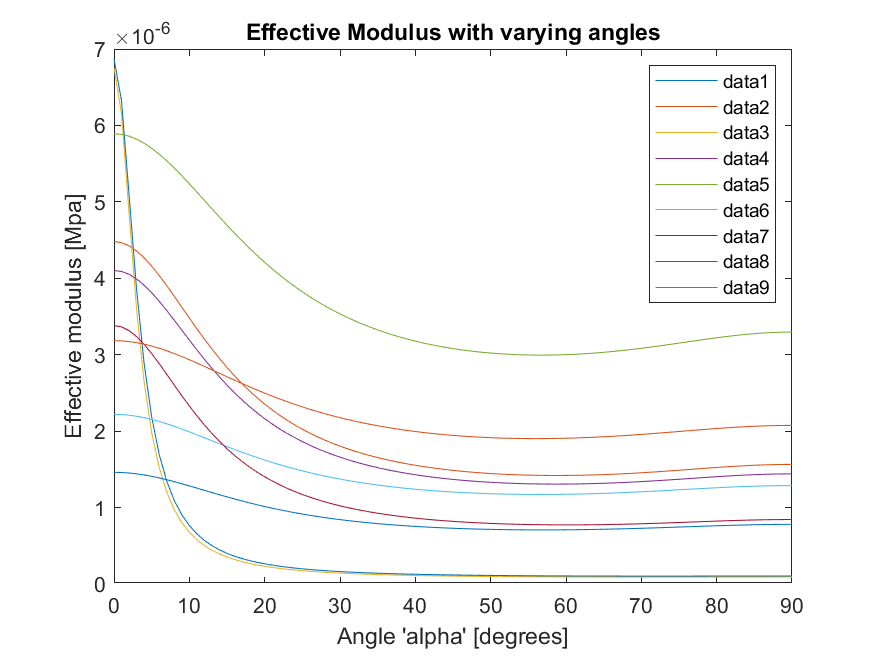
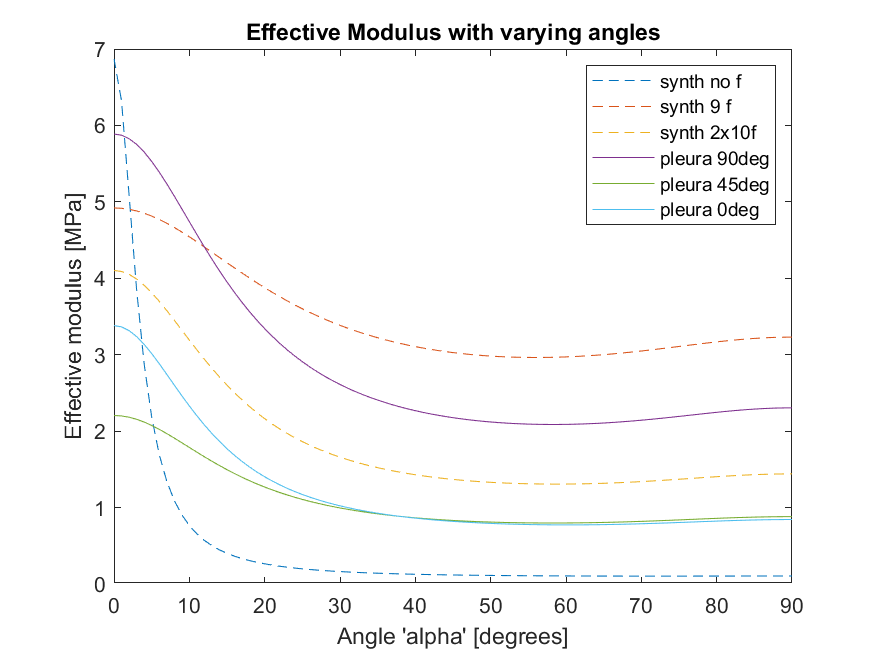
Add files via upload

diff --git a/overall.m b/overall.m
@@ -1,26 +1,37 @@
-[v_f,m_f] = biochemical_essay(0.4,10.73);%solvent in ml, sample_mass in mg(, tissue_vol in ml)
+% [v_f,m_f] = biochemical_essay(0.4,10.73);%solvent in ml, sample_mass in mg(, tissue_vol in ml)
 
 %   [1]         [2]             [3]     [4]        [5]
-%file_name, angle (degrees), width_0, width_1, thickness
+%file_name, angle (degrees), width_0 (mm), width_1(mm), thickness
 data = ["data/Test Run 1 synthetisch niks.txt",       0, 9.15,  9.14,  1.17;    %run 1
-        "data/Test Run 2 - 9 rechte fibers.txt",      0, 9.95,  9.91,  1.57;    %run 2
+        "data/Test Run 2 - 9 rechte fibers.txt",      0, 9.28,  9.23,  1.57;    %run 2
         "data/Test Run 3 synthetisch 70 graden.txt", 70, 9.61,  9.60,  1.5;     %run 3
         "data/Test Run 4 - 10 dubbele fibers.txt",    0, 9.95,  9.91,  1.57;    %run 4
         %"data/Test Run 5 1 vezel.txt",                0, 0.065, 0.064, 0.065;   %run 5 (verneukt elke grafiek)
-        "data/Test Run 6 verticaal 1.txt",            0, 0.95,  0.48,  0.22;    %run 5
-        "data/Test Run 7 - 45 graden 1.txt",         45, 3.3,   1.64,  0.9;     %run 6
-        "data/Test Run 8 horizontaal 1.txt",         90, 3.14,  3.03,  0.33;    %run 7
-        "data/Test Run 9 verticaal 2.txt",            0, 4.76,  4.53,  0.91;    %run 8
-        "data/Test Run 10 horizontaal 2.txt",        90, 2.24,  2.12,  0.59];   %run 9
+        "data/Test Run 6 verticaal 1.txt",           90, 0.95,  0.91,  0.22;    %run 5 
+        "data/Test Run 7 - 45 graden 1.txt",         45, 3.3,   3.16,  0.9;     %run 6
+        "data/Test Run 8 horizontaal 1.txt",          0, 3.14,  3.03,  0.33;    %run 7 %% raar result bij varying f-content
+        "data/Test Run 9 verticaal 2.txt",           90, 4.76,  4.53,  0.91;    %run 8
+        "data/Test Run 10 horizontaal 2.txt",         0, 2.24,  2.12,  0.59];   %run 9 %% raar result bij varying f-content
 
+plot_inf = ["synth no f","--";
+            "synth 9 f","--";
+            "synth f 70deg","--";
+            "synth 2x10f","--";
+            "pleura 90deg","-";
+            "pleura 45deg","-";
+            "pleura 0deg","-";
+            "pleura 90deg t2","-";
+            "pleura 0deg t2","-"];
+        
 %Effective Modulus with varying angle & volume fraction for specific data
 %run
-data_run = 5;           %Changable var
+data_run = 4;           %Changable var
 x_vm = 0:0.01:0.5;      %Changable var
 x_angle = 0:1:5;        %Changable var
 
 
 [E_comp,vm] = stress_strain_test(data(data_run,1),double(data(data_run,3)),double(data(data_run,4)),double(data(data_run,5)));
+
 E_f = E_comp*(1-vm);
 E_m = E_comp*vm;
 
@@ -33,38 +44,42 @@ for angle = x_angle
     hold on
 end
 
-title('Effective Modulus with varying angle & volume fraction');
+title('Effective Modulus with varying angle & fiber content');
 xlabel('fiber content, Vf [mg/mg]');
-ylabel('Effective modulus [Mpa]');
-legend();
-saveas(gcf,'Effective Modulus with varying angle & volume fraction.png');
+ylabel('Effective modulus [MPa]');
+legend(plot_inf(data_run,1));
+saveas(gcf,'Effective Modulus with varying angle & fiber content.png');
+
+
 
 %Effective Modulus with varying angle
-x_angle = 0:1:90;       %Changable var
+data_set_angle = [1,2,4,5,6,7]; %Changable var --> select which data sets you want to use from data directory
+x_angle = 0:1:90;               %Changable var
 
-for i = 1:1:size(data,1)%Changable var (set i to 1 or multiple data runs)
+for i = data_set_angle %Changable var (set i to 1 or multiple data runs)
     y = [];
-    disp(i)
     [E_comp, v_m] = stress_strain_test(data(i,1),double(data(i,3)),double(data(i,4)),double(data(i,5)));
     
     for angle = x_angle
         y(end+1) = youngsmodulus(angle, E_comp*(1-v_m), E_comp*v_m, v_m);
     end
-    figure(3), plot(x_angle, y);
+    figure(3), plot(x_angle, y, plot_inf(i,2));
     hold on
 end
 
 title('Effective Modulus with varying angles');
 xlabel("Angle 'alpha' [degrees]");
-ylabel('Effective modulus [Mpa]');
-legend();
+ylabel('Effective modulus [MPa]');
+legend(plot_inf(data_set_angle,1));
 saveas(gcf,'Effective Modulus with varying angle.png');
 
 
-%Effective Modulus with varying fiber content
-x_vm = 0:0.01:0.5;      %Changable var
 
-for i = 1:1:size(data,1)%Changable var (set i to 1 or multiple data runs)
+%Effective Modulus with varying fiber content
+data_set_fiber = [1,2,4,5,6,7]; %Changable var --> select which data sets you want to use from data directory
+x_vm = 0:0.01:0.5;              %Changable var --> define on which range you want v_m to iterate
+
+for i = data_set_fiber %Changable var (set i to 1 or multiple data runs)
     y = [];
     [E_comp] = stress_strain_test(data(i,1),double(data(i,3)),double(data(i,4)),double(data(i,5)));
     
@@ -72,12 +87,12 @@ for i = 1:1:size(data,1)%Changable var (set i to 1 or multiple data runs)
         y(end+1) = youngsmodulus(double(data(i,2)), E_comp*(1-v_m), E_comp*v_m, vm);
     end
 
-    figure(4), plot(x_vm, y);
+    figure(4), plot(x_vm, y, plot_inf(i,2));
     hold on
 end
 
-title('Effective Modulus with varying angles');
-xlabel("Angle 'alpha' [degrees]");
-ylabel('Effective modulus [Mpa]');
-legend();
+title('Effective Modulus with varying fiber content');
+xlabel("fiber content, Vf [mg/mg]");
+ylabel('Effective modulus [MPa]');
+legend(plot_inf(data_set_fiber,1));
 saveas(gcf,'Effective Modulus with varying fiber content.png');

diff --git a/biochemical_essay.m b/biochemical_essay.m
@@ -1,0 +1,52 @@
+function [v_f,m_f] = biochemical_essay(solvent,sample_mass,tissue_vol)%solvent in ml, sample_mass in mg, tissue_vol in ml
+    tiss_D = 1.0405125*10^3; %mg/ml
+    col_D = 1.35*10^3; %mg/ml
+    tiss_vol = sample_mass /tiss_D; %ml
+
+
+    bio_std = table2array(readtable('Hyp Group 12.xlsx','Range','C25:D31'));
+    tiss_mass = table2array(readtable('Hyp Group 12.xlsx','Range','G25:H27'));
+    bio_std_mean = mean(bio_std,2);
+    tiss_mass_mean = mean(tiss_mass,2);
+    conc = [0,12.5,25,50,100,200,400];
+
+    %get data:
+    mdl = fitlm(conc,bio_std_mean);
+    trend = [mdl.Coefficients.Estimate(2),mdl.Coefficients.Estimate(1)];
+    R_adj = mdl.Rsquared.Adjusted;
+
+    %plot data:
+    figure(1),
+    plot(conc,bio_std_mean,'black *');
+    hold on
+    
+    %add labels and texts:
+    title('Calibration line standards');
+    xlabel('Concentration Hydroxyproline in standards [μg/ml]');
+    ylabel('Absorption [nm]');
+    caption_1 = sprintf('y = %fx + %f', trend(1), trend(2));
+    caption_2 = sprintf('R^2-adjusted = %f', R_adj);
+    text(250,0.15,caption_1);
+    text(250,0.1,caption_2);
+    
+    % Plot the least-squares trend line: 
+    x = [0 max(conc)]; 
+    plot(x,polyval(trend,x),'red--');
+    axis([0 max(conc)*1.1 0 max(bio_std_mean)*1.1]);
+    
+    %save plot:
+    saveas(gcf,'biochem_essay.png');
+
+
+    %formulate volume and massa fractions:
+    %y=ax+b --> x=(y-b)/a
+    tiss_mass_hyp = tiss_mass_mean(1) - trend(2);
+    conc_hyp = tiss_mass_hyp/trend(1);
+
+    col_mass = conc_hyp * solvent * 8 * 10^-3; %mg collagen
+    col_volume = col_mass/col_D; %ml collagen 
+
+    %results:
+    m_f = col_mass/sample_mass;
+    v_f = col_volume/tiss_vol;
+end

diff --git a/stress_strain_test.m b/stress_strain_test.m
@@ -1,18 +1,15 @@
 function [E_comp, v_m] = stress_strain_test(file_name, width_0, width_1, thickness)
     file_data = importdata(file_name);
-    crosshead = file_data.data(:,1)*10^-3; %m
-    load = file_data.data(:,2); %N
+    crosshead = file_data.data(:,1); %mm
+    load = file_data.data(:,2)*10^3; %kN-->N
     time = file_data.data(:,3); %sec
     
     %Tensile strain & strength in y-direction (verticle)
-    tensile_stress = (load/(width_0*thickness))/1000; %F/a --> MPa
+    tensile_stress = (load/(width_0*thickness)); %F/a --> N/mm^2 (=MPa)
     tensile_strain_y = (crosshead-crosshead(1))/crosshead(1); %(L-L_0)/L_0
     E_comp = tensile_stress./tensile_strain_y;
     E_comp = mean(E_comp(isfinite(E_comp)));
     
     tensile_strain_x = (width_1 - width_0)/width_0; %(L-L_0)/L_0
     v_m = -(tensile_strain_x/mean(tensile_strain_y));
-    if v_m > 1
-        v_m = v_m/10;
-    end
 end
